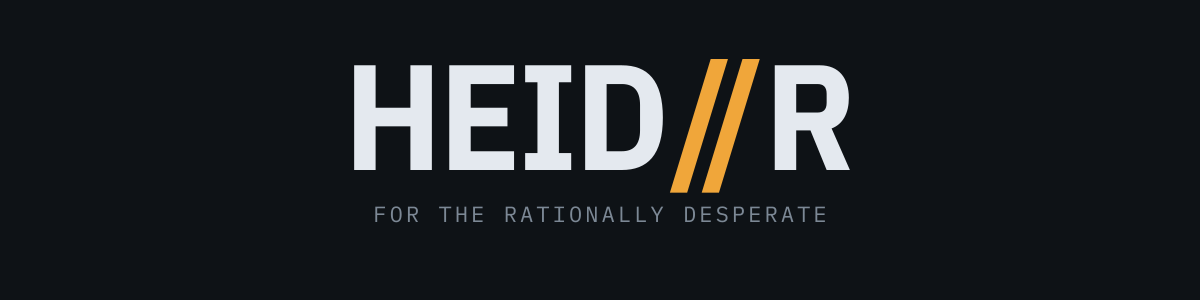
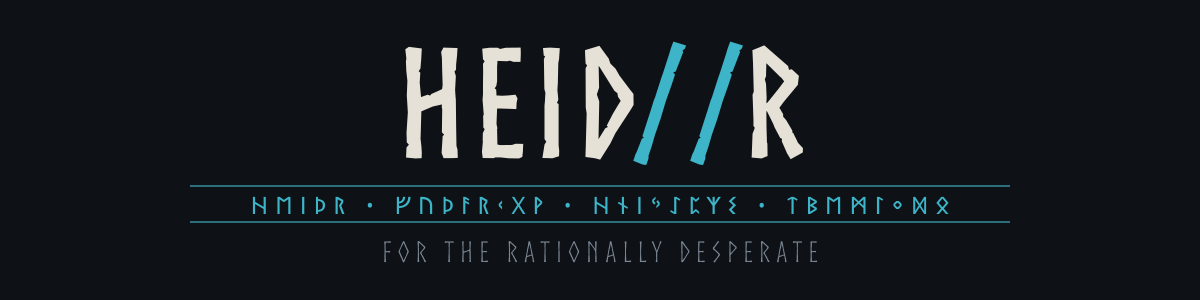
cut the wordmark in runic strokes and set the readme image in Norse

Changed region(s): [[0.1542, 0.15, 0.8325, 0.75], [0.3083, 0.81, 0.6783, 0.87]]

diff --git a/heidr/strings.py b/heidr/strings.py
@@ -22,15 +22,17 @@ SLOGANS = (
 
 TAGLINE = f"{NAME} — {SLOGANS[0]}"
 
-# Block wordmark for terminals with block glyphs. Each row is split where the
-# slashes begin and end, because the slashes are the one thing on the screen
-# that is allowed a colour of its own.
+# The wordmark, cut rather than printed: every letter is staves and branches,
+# the straight strokes a knife makes across the grain, and each one leans on
+# the rune it resembles (ᚺ, ᛖ, ᛁ, ᚦ, ᚱ). Each row is split where the slashes begin
+# and end, because the slashes are the one thing on the screen that is allowed
+# a colour of its own.
 BANNER_ROWS = (
-    ("█ █ ███ ███ ██ ", "   █   █ ", "██ "),
-    ("█ █ █    █  █ █", "  █   █  ", "█ █"),
-    ("███ ██   █  █ █", "  █   █  ", "██ "),
-    ("█ █ █    █  █ █", " █   █   ", "█ █"),
-    ("█ █ ███ ███ ██ ", " █   █   ", "█ █"),
+    ("|   |  |\\   |  |\\   ", "    /  /", " |\\ "),
+    ("|\\  |  |    |  | \\  ", "   /  / ", " | \\"),
+    ("| \\ |  |\\   |  |  | ", "  /  /  ", " | /"),
+    ("|  \\|  |    |  | /  ", " /  /   ", " |\\ "),
+    ("|   |  |\\   |  |/   ", "/  /    ", " | \\"),
 )
 BANNER_BLOCK = "\n".join("".join(row) for row in BANNER_ROWS)
 

diff --git a/tests/test_mark.py b/tests/test_mark.py
@@ -13,7 +13,7 @@ def test_only_the_slashes_carry_the_colour():
     coloured = "".join(drawn.plain[span.start : span.end] for span in drawn.spans)
 
     assert coloured.strip("\n ") != ""
-    assert "█" in coloured
+    assert set(coloured) <= set("/ \n")
     assert len(coloured) < len(drawn.plain) / 2
 
 

diff --git a/docs/brand/README.md b/docs/brand/README.md
@@ -1,11 +1,14 @@
 # The wordmark
 
-White `HEID`, orange slashes, white `R`, and the slogan spaced out underneath.
+`HEID//R` cut in runic letters: bone white, with the slashes in the blue green of
+old ice. Under it runs a band of runes, the name `ᚺᛖᛁᚦᚱ` and then the Elder
+Futhark in its three ættir, the way a runestone carries its text between two
+lines. The slogan is spaced out underneath.
 
-The orange is reserved. In the interface it marks the sign and the answer and
+The blue green is reserved. In the interface it marks the sign and the answer and
 nothing else; the animation behind them has a colour of its own, from the table
 in `heidr/visuals/palette.py`. Reserved is not the same as only: those colours
-are chosen to sit behind the orange rather than to compete with it.
+are chosen to sit behind it rather than to compete with it.
 
 | File | Size | Where it is used |
 |---|---|---|
@@ -14,13 +17,13 @@ are chosen to sit behind the orange rather than to compete with it.
 
 ## Colours
 
-Taken from the dark theme of the project status page.
 
 | Role | Value |
 |---|---|
 | Ground | `#0e1216` |
-| Wordmark | `#e4e9ef` |
-| Slashes | `#f0a63a` |
+| Wordmark | `#e6e1d6` |
+| Slashes, runes | `#3db4c8` |
+| Band | `#2a6f7a` |
 | Slogan | `#7c8895` |
 
 ## Rebuilding
@@ -29,10 +32,11 @@ Taken from the dark theme of the project status page.
 ./tools/make_brand.sh
 ```
 
-The script fetches IBM Plex Sans Condensed Bold and IBM Plex Mono, both
-OFL-1.1, into `~/.local/share/fonts/heidr-brand`, then renders both PNGs with
-`rsvg-convert`. The fonts are not committed: the repository does not modify
-them, so it has no business carrying them.
+The script fetches Norse by Joël Carrouché and Noto Sans Runic into
+`~/.local/share/fonts/heidr-brand`, then renders both PNGs with `rsvg-convert`.
+The fonts are not committed. Norse is free to use but not to redistribute, and
+the repository does not modify either, so it has no business carrying them.
+The licences are in [credits](../en/credits.md#fonts).
 
 Edit the SVG, run the script, commit both. The PNGs are committed because
 GitHub renders them everywhere, including in the social preview, where an SVG

diff --git a/docs/ru/credits.md b/docs/ru/credits.md
@@ -81,6 +81,16 @@ GPL.
 | [terminaltexteffects](https://github.com/ChrisBuilds/terminaltexteffects) | MIT |
 | numpy, requests, tomli-w, sounddevice | BSD или MIT |
 
+## Шрифты
+
+Ими набрана картинка в README. В репозитории их нет: `tools/make_brand.sh`
+скачивает оба, а в коммит попадают только готовые изображения.
+
+| Шрифт | Автор | Лицензия | Для чего |
+|---|---|---|---|
+| [Norse](https://www.1001fonts.com/norse-font.html) | Жоэль Карруше (Joël Carrouché) | Joël Carrouché Free Font License: пользоваться можно как угодно, изменять и распространять нельзя | Логотип и лозунг |
+| [Noto Sans Runic](https://github.com/notofonts/runic) | The Noto Project Authors | OFL-1.1 | Строка рун под логотипом |
+
 ## Данные
 
 Публичные адреса, к которым ходят источники: лента землетрясений USGS,

diff --git a/docs/en/credits.md b/docs/en/credits.md
@@ -77,6 +77,16 @@ These are executed, not linked. Their licences do not reach this code.
 | [terminaltexteffects](https://github.com/ChrisBuilds/terminaltexteffects) | MIT |
 | numpy, requests, tomli-w, sounddevice | BSD or MIT |
 
+## Fonts
+
+Used to render the README image. Neither is shipped: `tools/make_brand.sh`
+fetches both, and only the rendered pictures are committed.
+
+| Font | Author | Licence | Used for |
+|---|---|---|---|
+| [Norse](https://www.1001fonts.com/norse-font.html) | Joël Carrouché | Joël Carrouché Free Font License: free for any use, not to be modified or redistributed | The wordmark and the slogan |
+| [Noto Sans Runic](https://github.com/notofonts/runic) | The Noto Project Authors | OFL-1.1 | The line of runes under the wordmark |
+
 ## Data
 
 Public endpoints the sources use: USGS earthquake feed,
